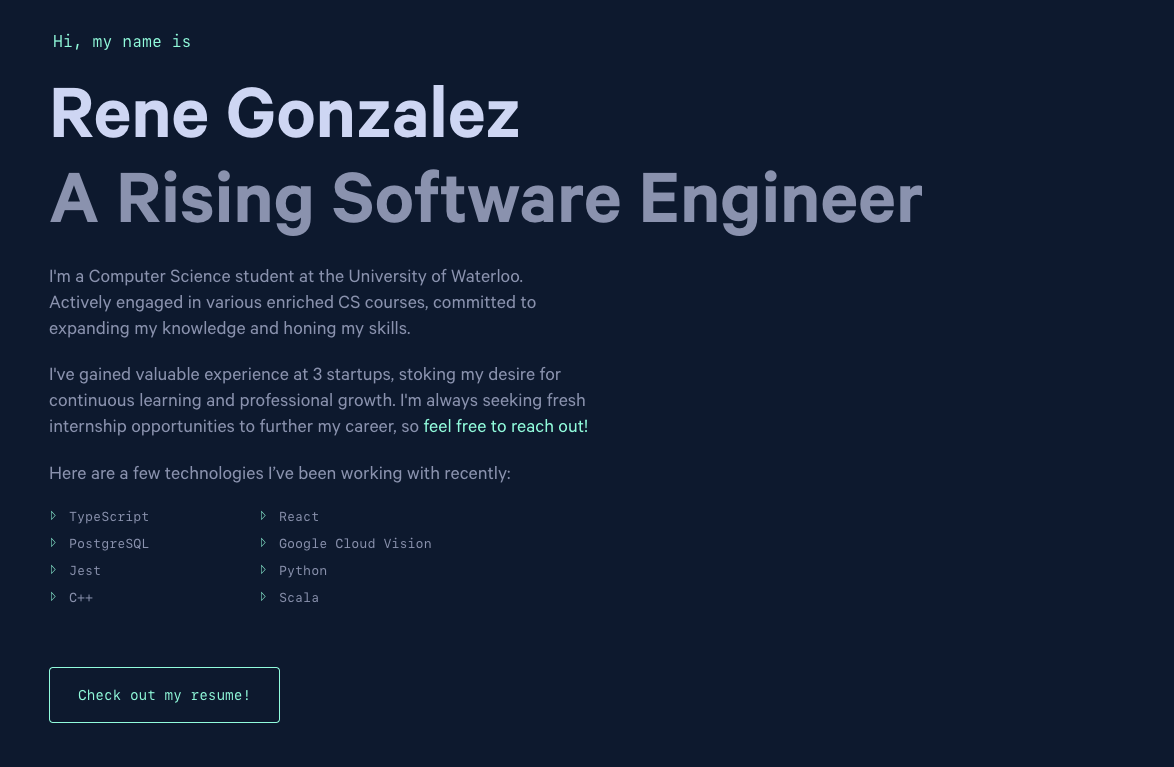
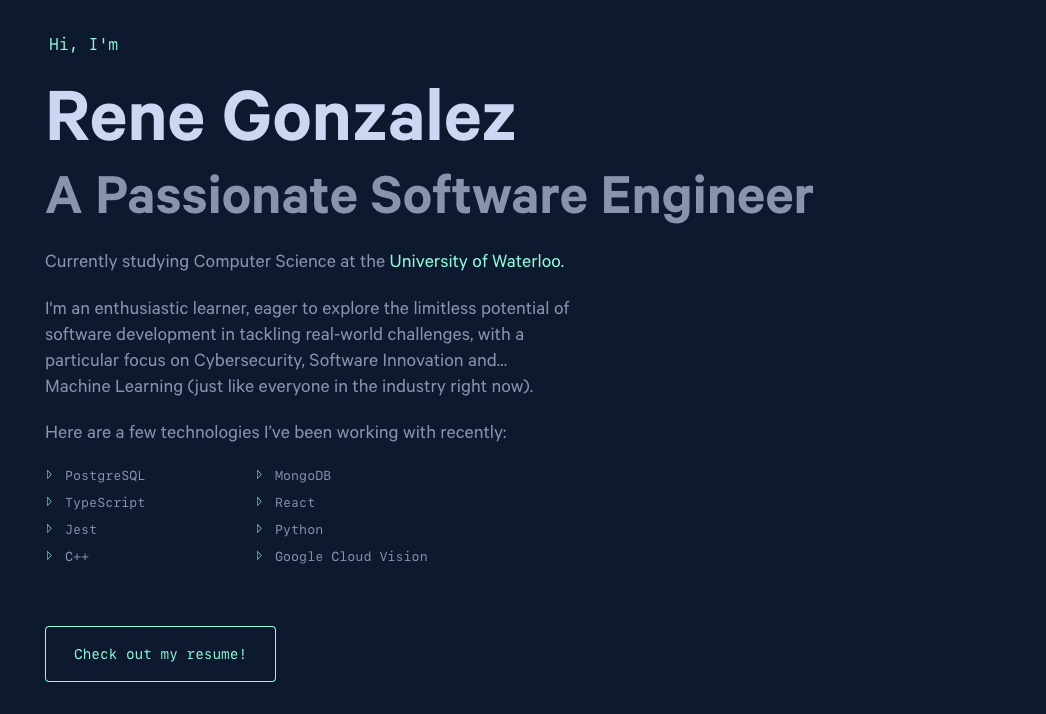
hero updated

diff --git a/src/components/backgroundAnimation.js b/src/components/backgroundAnimation.js
@@ -1,0 +1,288 @@
+import React from 'react';
+
+const BackgroundAnimation = () => (
+  <div>
+    <svg
+      className="BgAnimation__svg"
+      viewBox="0 0 602 602"
+      fill="none"
+      xmlns="http://www.w3.org/2000/svg">
+      <g opacity="0.15">
+        <path
+          fillRule="evenodd"
+          clipRule="evenodd"
+          d="M201.337 87.437C193.474 79.5738 180.725 79.5738 172.862 87.437L87.437 172.862C79.5739 180.725 79.5739 193.474 87.437 201.337L400.663 514.563C408.526 522.426 421.275 522.426 429.138 514.563L514.563 429.138C522.426 421.275 522.426 408.526 514.563 400.663L201.337 87.437ZM30.4869 115.912C-8.82897 155.228 -8.82897 218.972 30.4869 258.287L343.713 571.513C383.028 610.829 446.772 610.829 486.088 571.513L571.513 486.088C610.829 446.772 610.829 383.028 571.513 343.713L258.287 30.4869C218.972 -8.82896 155.228 -8.82896 115.912 30.4869L30.4869 115.912Z"
+          stroke="url(#paint0_radial)"
+          id="path_0"
+        />
+        <path
+          d="M514.563 201.337C522.426 193.474 522.426 180.725 514.563 172.862L429.138 87.437C421.275 79.5738 408.526 79.5739 400.663 87.437L358.098 130.002L301.148 73.0516L343.713 30.4869C383.028 -8.82896 446.772 -8.82896 486.088 30.4869L571.513 115.912C610.829 155.228 610.829 218.972 571.513 258.287L357.802 471.999L300.852 415.049L514.563 201.337Z"
+          stroke="url(#paint1_radial)"
+          id="path_1"
+        />
+        <path
+          d="M243.901 471.999L201.337 514.563C193.474 522.426 180.725 522.426 172.862 514.563L87.437 429.138C79.5739 421.275 79.5739 408.526 87.437 400.663L301.148 186.952L244.198 130.002L30.4869 343.713C-8.82897 383.028 -8.82897 446.772 30.4869 486.088L115.912 571.513C155.228 610.829 218.972 610.829 258.287 571.513L300.852 528.949L243.901 471.999Z"
+          stroke="url(#paint2_radial)"
+          id="path_2"
+        />
+      </g>
+      <ellipse
+        cx="295.027"
+        cy="193.118"
+        transform="translate(-295.027 -193.118)"
+        rx="1.07306"
+        ry="1.07433"
+        fill="#945DD6">
+        <animateMotion dur="10s" repeatCount="indefinite" rotate="auto">
+          <mpath xlinkHref="#path_2" />
+        </animateMotion>
+      </ellipse>
+      <path
+        d="M294.685 193.474L268.932 219.258"
+        transform="translate(-294.685 -193.474) rotate(45 294.685 193.474)"
+        stroke="url(#paint3_linear)">
+        <animateMotion dur="10s" repeatCount="indefinite" rotate="auto">
+          <mpath xlinkHref="#path_2" />
+        </animateMotion>
+      </path>
+      <ellipse
+        cx="295.027"
+        cy="193.118"
+        transform="translate(-295.027 -193.118)"
+        rx="1.07306"
+        ry="1.07433"
+        fill="#46737">
+        <animateMotion dur="5s" begin="1" repeatCount="indefinite" rotate="auto">
+          <mpath xlinkHref="#path_2" />
+        </animateMotion>
+      </ellipse>
+      <path
+        d="M294.685 193.474L268.932 219.258"
+        transform="translate(-294.685 -193.474) rotate(45 294.685 193.474)"
+        stroke="url(#paint7_linear)">
+        <animateMotion dur="5s" begin="1" repeatCount="indefinite" rotate="auto">
+          <mpath xlinkHref="#path_2" />
+        </animateMotion>
+      </path>
+      <ellipse
+        cx="476.525"
+        cy="363.313"
+        rx="1.07433"
+        ry="1.07306"
+        transform="translate(-476.525 -363.313) rotate(90 476.525 363.313)"
+        fill="#945DD6">
+        <animateMotion dur="10s" repeatCount="indefinite" rotate="auto">
+          <mpath xlinkHref="#path_0" />
+        </animateMotion>
+      </ellipse>
+      <path
+        d="M476.171 362.952L450.417 337.168"
+        transform="translate(-476.525 -363.313) rotate(-45 476.171 362.952)"
+        stroke="url(#paint4_linear)">
+        <animateMotion dur="10s" repeatCount="indefinite" rotate="auto">
+          <mpath xlinkHref="#path_0" />
+        </animateMotion>
+      </path>
+      <ellipse
+        cx="382.164"
+        cy="155.029"
+        rx="1.07433"
+        ry="1.07306"
+        transform="translate(-382.164 -155.029) rotate(90 382.164 155.029)"
+        fill="#F46737">
+        <animateMotion dur="10s" begin="1" repeatCount="indefinite" rotate="auto">
+          <mpath xlinkHref="#path_0" />
+        </animateMotion>
+      </ellipse>
+      <path
+        d="M381.81 154.669L356.057 128.885"
+        transform="translate(-381.81 -154.669) rotate(-45 381.81 154.669)"
+        stroke="url(#paint5_linear)">
+        <animateMotion dur="10s" begin="1" repeatCount="indefinite" rotate="auto">
+          <mpath xlinkHref="#path_0" />
+        </animateMotion>
+      </path>
+      <ellipse
+        cx="333.324"
+        cy="382.691"
+        rx="1.07306"
+        ry="1.07433"
+        transform="translate(-333.324 -382.691) rotate(-180 333.324 382.691)"
+        fill="#F46737">
+        <animateMotion dur="5s" begin="0" repeatCount="indefinite" rotate="auto">
+          <mpath xlinkHref="#path_1" />
+        </animateMotion>
+      </ellipse>
+      <path
+        d="M333.667 382.335L359.42 356.551"
+        transform="scale(-1 1) translate(-333.667 -382.335) rotate(45 333.667 382.335)"
+        stroke="url(#paint6_linear)">
+        <animateMotion dur="5s" begin="0" repeatCount="indefinite" rotate="auto">
+          <mpath xlinkHref="#path_1" />
+        </animateMotion>
+      </path>
+      <ellipse
+        cx="165.524"
+        cy="93.9596"
+        rx="1.07306"
+        ry="1.07433"
+        transform="translate(-165.524 -93.9596)"
+        fill="#F46737">
+        <animateMotion dur="10s" begin="3" repeatCount="indefinite" rotate="auto">
+          <mpath xlinkHref="#path_0" />
+        </animateMotion>
+      </ellipse>
+      <path
+        d="M165.182 94.3159L139.429 120.1"
+        transform="translate(-165.182 -94.3159) rotate(45 165.182 94.3159)"
+        stroke="url(#paint7_linear)">
+        <animateMotion dur="10s" begin="3" repeatCount="indefinite" rotate="auto">
+          <mpath xlinkHref="#path_0" />
+        </animateMotion>
+      </path>
+      <ellipse
+        cx="476.525"
+        cy="363.313"
+        rx="1.07433"
+        ry="1.07306"
+        transform="translate(-476.525 -363.313) rotate(90 476.525 363.313)"
+        fill="#13ADC7">
+        <animateMotion dur="12s" begin="4" repeatCount="indefinite" rotate="auto">
+          <mpath xlinkHref="#path_0" />
+        </animateMotion>
+      </ellipse>
+      <path
+        d="M476.171 362.952L450.417 337.168"
+        transform="translate(-476.525 -363.313) rotate(-45 476.171 362.952)"
+        stroke="url(#paint11_linear)">
+        <animateMotion dur="12s" begin="4" repeatCount="indefinite" rotate="auto">
+          <mpath xlinkHref="#path_0" />
+        </animateMotion>
+      </path>
+      <defs>
+        <radialGradient
+          id="paint0_radial"
+          cx="0"
+          cy="0"
+          r="1"
+          gradientUnits="userSpaceOnUse"
+          gradientTransform="translate(301 301) rotate(90) scale(300)">
+          <stop offset="0.333333" stopColor="#FBFBFB" />
+          <stop offset="1" stopColor="white" stopOpacity="0" />
+        </radialGradient>
+        <radialGradient
+          id="paint1_radial"
+          cx="0"
+          cy="0"
+          r="1"
+          gradientUnits="userSpaceOnUse"
+          gradientTransform="translate(301 301) rotate(90) scale(300)">
+          <stop offset="0.333333" stopColor="#FBFBFB" />
+          <stop offset="1" stopColor="white" stopOpacity="0" />
+        </radialGradient>
+        <radialGradient
+          id="paint2_radial"
+          cx="0"
+          cy="0"
+          r="1"
+          gradientUnits="userSpaceOnUse"
+          gradientTransform="translate(301 301) rotate(90) scale(300)">
+          <stop offset="0.333333" stopColor="#FBFBFB" />
+          <stop offset="1" stopColor="white" stopOpacity="0" />
+        </radialGradient>
+        <linearGradient
+          id="paint3_linear"
+          x1="295.043"
+          y1="193.116"
+          x2="269.975"
+          y2="218.154"
+          gradientUnits="userSpaceOnUse">
+          <stop stopColor="#945DD6" />
+          <stop offset="1" stopColor="#945DD6" stopOpacity="0" />
+        </linearGradient>
+        <linearGradient
+          id="paint4_linear"
+          x1="476.529"
+          y1="363.31"
+          x2="451.461"
+          y2="338.272"
+          gradientUnits="userSpaceOnUse">
+          <stop stopColor="#945DD6" />
+          <stop offset="1" stopColor="#945DD6" stopOpacity="0" />
+        </linearGradient>
+        <linearGradient
+          id="paint5_linear"
+          x1="382.168"
+          y1="155.027"
+          x2="357.1"
+          y2="129.989"
+          gradientUnits="userSpaceOnUse">
+          <stop stopColor="#F46737" />
+          <stop offset="1" stopColor="#F46737" stopOpacity="0" />
+        </linearGradient>
+        <linearGradient
+          id="paint6_linear"
+          x1="333.309"
+          y1="382.693"
+          x2="358.376"
+          y2="357.655"
+          gradientUnits="userSpaceOnUse">
+          <stop stopColor="#F46737" />
+          <stop offset="1" stopColor="#F46737" stopOpacity="0" />
+        </linearGradient>
+        <linearGradient
+          id="paint7_linear"
+          x1="165.54"
+          y1="93.9578"
+          x2="140.472"
+          y2="118.996"
+          gradientUnits="userSpaceOnUse">
+          <stop stopColor="#F46737" />
+          <stop offset="1" stopColor="#F46737" stopOpacity="0" />
+        </linearGradient>
+        <linearGradient
+          id="paint8_linear"
+          x1="414.367"
+          y1="301.156"
+          x2="439.435"
+          y2="276.118"
+          gradientUnits="userSpaceOnUse">
+          <stop stopColor="#13ADC7" />
+          <stop offset="1" stopColor="#13ADC7" stopOpacity="0" />
+        </linearGradient>
+        <linearGradient
+          id="paint9_linear"
+          x1="515.943"
+          y1="288.238"
+          x2="541.339"
+          y2="291.454"
+          gradientUnits="userSpaceOnUse">
+          <stop stopColor="#13ADC7" />
+          <stop offset="1" stopColor="#13ADC7" stopOpacity="0" />
+        </linearGradient>
+        <linearGradient
+          id="paint10_linear"
+          x1="117.001"
+          y1="230.619"
+          x2="117.36"
+          y2="258.193"
+          gradientUnits="userSpaceOnUse">
+          <stop stopColor="#945DD6" />
+          <stop offset="1" stopColor="#945DD6" stopOpacity="0" />
+        </linearGradient>
+        <linearGradient
+          id="paint11_linear"
+          x1="476.529"
+          y1="363.31"
+          x2="451.461"
+          y2="338.272"
+          gradientUnits="userSpaceOnUse">
+          <stop stopColor="#13ADC7" />
+          <stop offset="1" stopColor="#13ADC7" stopOpacity="0" />
+        </linearGradient>
+      </defs>
+    </svg>
+  </div>
+);
+
+export default BackgroundAnimation;

diff --git a/src/components/sections/hero.js b/src/components/sections/hero.js
@@ -121,12 +121,11 @@ const Hero = () => {
         </a>
       </p>
       <p>
-        I've had <a href="/#jobs">4 internships</a>, including experience at 3 startups and a
-        government agency, enhancing my skills across diverse technologies and work environments.
-        I'm always seeking fresh internship opportunities, so{' '}
-        <a href="/#contact">feel free to reach out!</a>
+        I'm an enthusiastic learner, eager to explore the limitless potential of software
+        development in tackling real-world challenges, with a particular focus on Cybersecurity,
+        Software Innovation and... <br /> Machine Learning (just like everyone in the industry right
+        now).
       </p>
-
       <p>Here are a few technologies I’ve been working with recently:</p>
 
       {skillsComponent}

diff --git a/README.md b/README.md
@@ -76,7 +76,7 @@
 ## Credits
 
 <p>
-  Originally designed by <a href="https://github.com/bchiang7" target="_blank">Brittany Chiang</a> and can be found <a href="https://brittanychiang.com/" target="_blank">here</a>
+  Originally designed by <a href="https://brittanychiang.com/" target="_blank">Brittany Chiang</a>
 
 It has been revised and modified by me.
 
